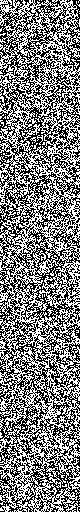
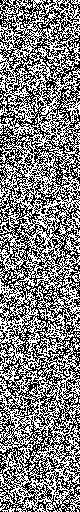
- added random noise to the original location of a displaced pixel. - added another shift value. So now we shift dark gray, medium gray, and bright pixels different amounts.

diff --git a/src/magiceye/CreateStereogram.java b/src/magiceye/CreateStereogram.java
@@ -64,6 +64,7 @@ public class CreateStereogram {
 		// step 2, 3, 4, 5: shift the pixels of the previous strip according to the whiteness or blackness
 		// of the pixel in the depth map.
 		final int LIGHT_PIXEL_SHIFT = -4;
+		final int MEDIUM_PIXEL_SHIFT = -3;
 		final int DARK_PIXEL_SHIFT = -2;
 		
 		for(int iter = 1; iter < N_STRIPS + 1; iter++) {
@@ -72,16 +73,18 @@ public class CreateStereogram {
 					int sourcePixel = output.getRGB(col - STRIP_WIDTH, row);
 					if(depthMap.getRGB(col - STRIP_WIDTH, row) < 0xFF333333) {
 						output.setRGB(col, row, sourcePixel);
-						//output.setRGB(col, row, 0xFFFF0000); // red
+					}
+					else if(depthMap.getRGB(col - STRIP_WIDTH, row) < 0xFF888888) {
+						output.setRGB(col + DARK_PIXEL_SHIFT, row, sourcePixel);
+						output.setRGB(col, row, Util.getRandomPixel());
 					}
 					else if(depthMap.getRGB(col - STRIP_WIDTH, row) < 0xFFBBBBBB) {
-						output.setRGB(col + DARK_PIXEL_SHIFT, row, sourcePixel);
-						//output.setRGB(col,  row, 0xFF0000FF); // blue
+						output.setRGB(col + MEDIUM_PIXEL_SHIFT, row, sourcePixel);
+						output.setRGB(col, row, Util.getRandomPixel());
 					}
 					else {
-						//output.setRGB(col,  row, 0xFF00FF00); // GREEN
-						//output.setRGB(col, row, sourcePixel);
 						output.setRGB(col + LIGHT_PIXEL_SHIFT, row, sourcePixel);
+						output.setRGB(col, row, Util.getRandomPixel());
 					}
 					
 				}

diff --git a/src/magiceye/CreateRandomPattern.java b/src/magiceye/CreateRandomPattern.java
@@ -15,10 +15,7 @@ import javax.imageio.ImageIO;
 
 public class CreateRandomPattern {
 	
-	private static boolean getRandomBoolean() {
-		Random rd = new Random();
-	    return rd.nextBoolean();
-	}
+
 	
 	public static BufferedImage CreateImage(int height, int width) {
 		BufferedImage randomImage = new BufferedImage(width, height, BufferedImage.TYPE_INT_ARGB);
@@ -26,12 +23,7 @@ public class CreateRandomPattern {
 		int nRows = randomImage.getHeight();
 		for (int row = 0; row < nRows; row++) {
 			for (int col = 0; col < nCols; col++) {
-				if(getRandomBoolean()) {
-					randomImage.setRGB(col, row, Util.WHITE);
-				}
-				else {
-					randomImage.setRGB(col, row, Util.BLACK);
-				}
+				randomImage.setRGB(col, row, Util.getRandomPixel());
 			}
 		}
 		return randomImage;

diff --git a/src/magiceye/Util.java b/src/magiceye/Util.java
@@ -3,6 +3,7 @@ package magiceye;
 import java.awt.image.BufferedImage;
 import java.io.File;
 import java.io.IOException;
+import java.util.Random;
 
 import javax.imageio.ImageIO;
 
@@ -10,6 +11,19 @@ public class Util {
 	
 	public static final int BLACK = 0xFF000000;
 	public static final int WHITE = 0xFFFFFFFF;
+	
+	private static boolean getRandomBoolean() {
+		Random rd = new Random();
+	    return rd.nextBoolean();
+	}
+	
+	public static int getRandomPixel() {
+		if(getRandomBoolean()) {
+			return BLACK;
+		}else {
+			return WHITE;
+		}
+	}
 	
 	public static void writeImage(BufferedImage image, String path) {
 		File ImageFile = new File(path);
